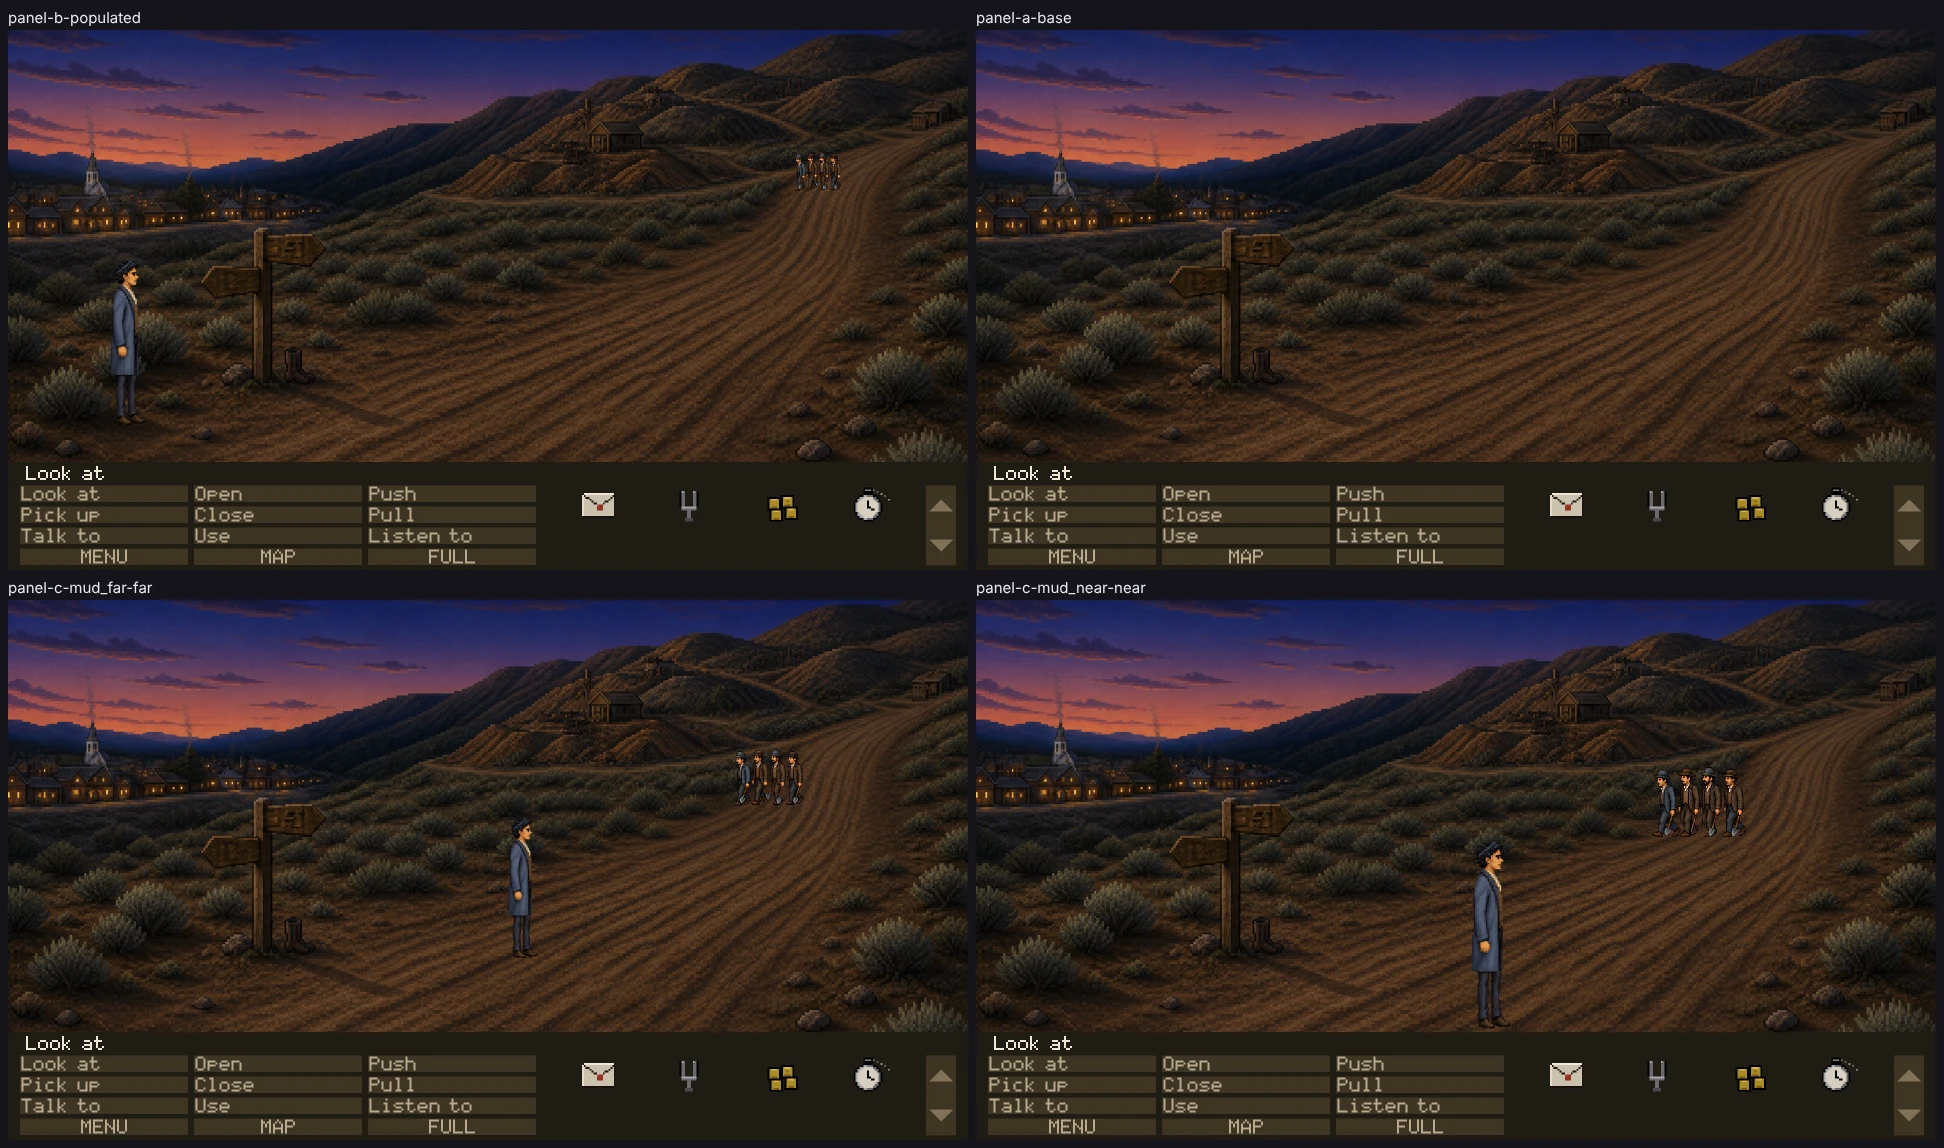
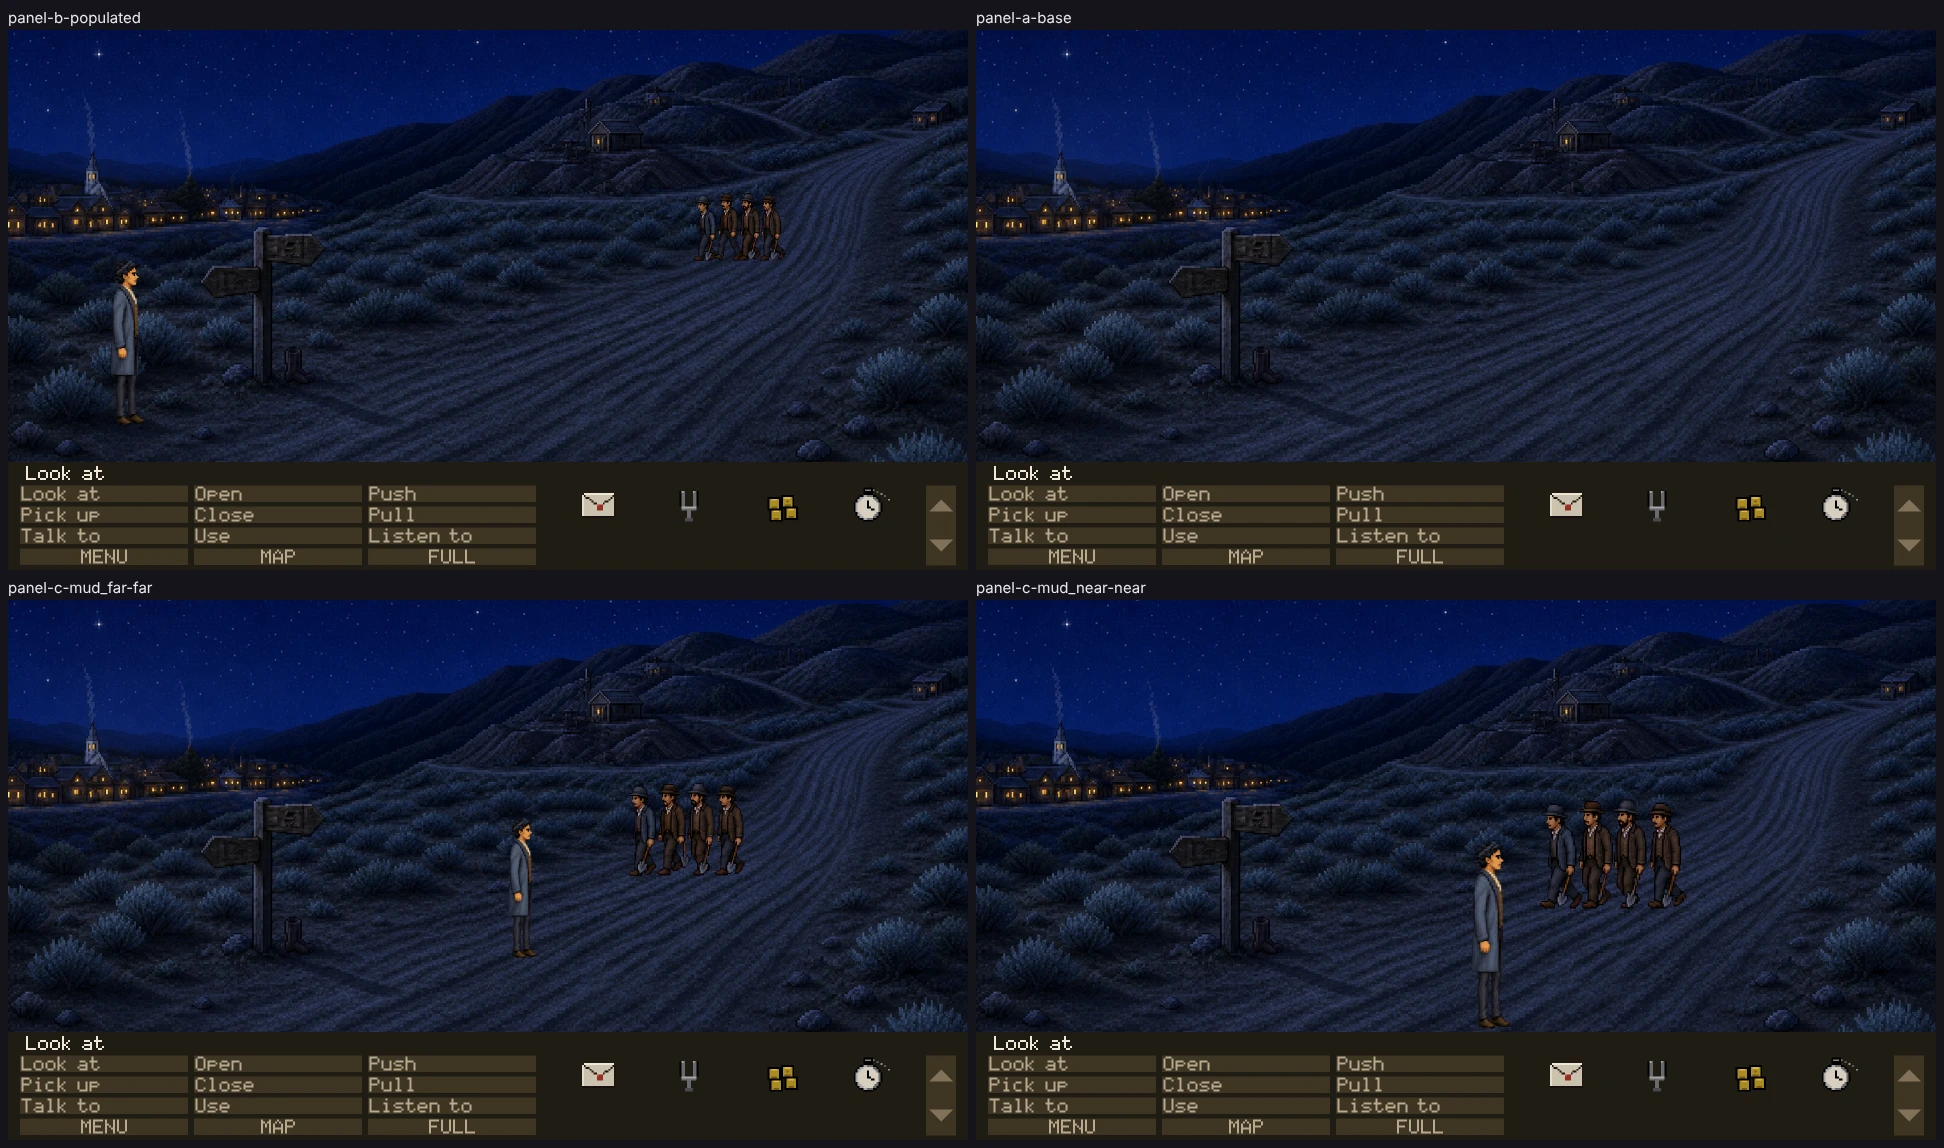
Room 22: four-panel proof on a clean tree
Claude-Session: https://claude.ai/code/session_01FXbCupzwLJAEr7fqqWYP8A

diff --git a/renders/proofs/claims-road/index.html b/renders/proofs/claims-road/index.html
@@ -17,7 +17,7 @@
 </style>
 <h1>claims_road — four-panel live-runtime proof</h1>
 <p class="lede">Every frame below is the full play area as the renderer drew it, in the running
-game, at <code>4ad0b6e2</code> on <code>ccr-347d40c6-71r9f9</code>.
+game, at <code>2240419b</code> on <code>ccr-347d40c6-71r9f9</code>.
 No crop, isolated sprite or source image appears here: those are for diagnosing what a full
 frame has already shown.</p>
 <p class="lede"><b>These panels establish technical admissibility only.</b> Nothing here says the
@@ -58,14 +58,14 @@ art is good, in style, funny or approved. Only Tyler sets <code>visual_accepted<
     <figcaption><b>PANEL C &mdash; mud_far far, authored y716</b>
       <span>expected 279px &middot; runtime 279px &middot;
         silhouette 280px, bottom y716</span>
-      <span>art/actors/thad-idle-right/idle-03.png</span>
+      <span>art/actors/thad-idle-right/idle-01.png</span>
     </figcaption>
   </figure>
   <figure>
     <img src="raw-captures-ignored/panel-c-mud_near-near.png" alt="">
     <figcaption><b>PANEL C &mdash; mud_near near, authored y857</b>
       <span>expected 374px &middot; runtime 374px &middot;
-        silhouette 374px, bottom y856</span>
-      <span>art/actors/thad-idle-right/idle-01.png</span>
+        silhouette 394px, bottom y856</span>
+      <span>art/actors/thad-idle-right/idle-05.png</span>
     </figcaption>
   </figure>
